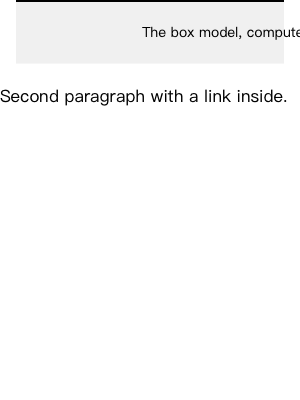
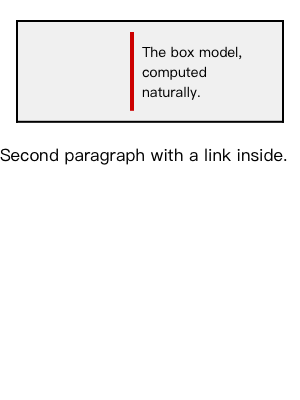
fix(css): apply declarations in source order, not dictionary order
The cascade applied a rule's declarations by iterating a [String: String]
dictionary. Swift randomizes Dictionary iteration per process, so when two
declarations in one rule touched the same property the winner was decided by
the hash seed — identical input laid out differently between runs.

红楼梦 chapter title pages carry:

    div.v1 { border: 4px solid #fff; border-width: 4px 0px; ... }

Both write the left/right border. Depending on the seed the box was 0 or 4pt
wider per side, so the centered title landed on a different x. Whole-book
runs disagreed on a *varying* subset of chapters, which is why this looked
like cross-chapter state leakage at first.

- DeclarationBlock/CSSRule now carry `order`: property names in source order,
  a re-declared property moving to its last position. A declaration killed by
  an earlier !important does not move its property.
- cascadeApply walks that order. The pre-existing font-size special case
  stays: it is the two-pass computation CSS requires for em-relative values,
  not an ordering workaround. Its comment already recorded the same bug
  ("line-height flips between runs, 27.1pt vs 33.3pt on 145%") — only the
  symptom had been patched.
- The capability scanner iterates source order too, so its reported reason
  list is stable.

This is the shared CSS parser: the legacy CoreText path uses it as well, so
the non-determinism was in shipping builds, not only in the browser engine.

Evidence
[…]

diff --git a/Tests/iOS/yuedu appTests/BrowserLayoutDeterminismTests.swift b/Tests/iOS/yuedu appTests/BrowserLayoutDeterminismTests.swift
@@ -1,0 +1,104 @@
+import Testing
+import Foundation
+@testable import yuedu_app
+
+/// Isolating the BrowserLayout non-determinism found by the whole-book
+/// line-break net: laying out identical input three times produced different
+/// geometry for a *varying* subset of chapter title pages (spine 266 took
+/// x = 168.20 / 170.20 / 164.20 across three runs).
+///
+/// These three tests separate the candidate causes rather than guessing:
+///
+///   1. `isolatedLayoutIsStable`      — is one chapter, alone, reproducible?
+///   2. `loopResultMatchesIsolated`   — does laying out the whole book before
+///                                      it change the answer?
+///   3. `prefixLengthChangesResult`   — does *how much* came before it matter?
+///
+/// (1) failing means the instability is inside a single chapter's layout.
+/// (1) passing while (2) or (3) fails means cross-chapter state is leaking —
+/// the prefix is the carrier, and (3) narrows how far back it reaches.
+@MainActor
+struct BrowserLayoutDeterminismTests {
+
+    typealias Net = BrowserLayoutLineBreakBaselineTests
+
+    /// Chapter title pages seen flapping. 266 flapped in two separate runs.
+    static let suspects = [266, 257, 262, 403]
+    static let probe = 266
+
+    private static func print(of session: PublicationSession, spine: Int) async -> Net.ChapterPrint? {
+        guard let (pages, text) = await Net.layout(session: session, spine: spine) else { return nil }
+        return Net.fingerprint(spine: spine, pages: pages, sourceText: text)
+    }
+
+    private static func freshSession() async throws -> PublicationSession {
+        let path = try #require(Net.epubPath)
+        return try await PublicationSession.open(sourceURL: URL(fileURLWithPath: path))
+    }
+
+    // MARK: - 1. Alone, repeated
+
+    @Test("a single chapter laid out alone is reproducible", .enabled(if: Net.epubPath != nil))
+    func isolatedLayoutIsStable() async throws {
+        var seen: [String: Int] = [:]
+        for _ in 0..<5 {
+            // Fresh session each pass: nothing carries over but process-global state.
+            let session = try await Self.freshSession()
+            guard let p = await Self.print(of: session, spine: Self.probe) else { continue }
+            seen[p.first, default: 0] += 1
+        }
+        Swift.print("DETERMINISM isolated spine=\(Self.probe) distinctFirstLines=\(seen.count) → \(seen)")
+        #expect(seen.count == 1, "spine \(Self.probe) alone produced \(seen.count) different first lines: \(seen)")
+    }
+
+    // MARK: - 2. Alone vs after the whole book
+
+    @Test("laying out the whole book first does not change a chapter", .enabled(if: Net.epubPath != nil))
+    func loopResultMatchesIsolated() async throws {
+        let solo = try await Self.freshSession()
+        let alone = await Self.print(of: solo, spine: Self.probe)
+
+        let looped = try await Self.freshSession()
+        for spine in 0..<Self.probe {
+            _ = await Net.layout(session: looped, spine: spine)
+        }
+        let afterLoop = await Self.print(of: looped, spine: Self.probe)
+
+        Swift.print("DETERMINISM alone=\(alone?.first ?? "-")")
+        Swift.print("DETERMINISM loop =\(afterLoop?.first ?? "-")")
+        #expect(alone == afterLoop, "prefix of \(Self.probe) chapters changed the layout of spine \(Self.probe)")
+    }
+
+    // MARK: - 3. How far back does the carrier reach?
+
+    @Test("the length of what came before does not change a chapter", .enabled(if: Net.epubPath != nil))
+    func prefixLengthChangesResult() async throws {
+        var byPrefix: [Int: String] = [:]
+        for start in [Self.probe - 1, Self.probe - 16, Self.probe - 64, 0] {
+            let session = try await Self.freshSession()
+            for spine in start..<Self.probe {
+                _ = await Net.layout(session: session, spine: spine)
+            }
+            byPrefix[Self.probe - start] = await Self.print(of: session, spine: Self.probe)?.first ?? "-"
+        }
+        Swift.print("DETERMINISM byPrefixLength=\(byPrefix)")
+        #expect(Set(byPrefix.values).count == 1, "prefix length changed the result: \(byPrefix)")
+    }
+
+    // MARK: - Every suspect, alone
+
+    @Test("all suspect title pages are reproducible alone", .enabled(if: Net.epubPath != nil))
+    func allSuspectsStableAlone() async throws {
+        var unstable: [Int] = []
+        for spine in Self.suspects {
+            var seen = Set<String>()
+            for _ in 0..<3 {
+                let session = try await Self.freshSession()
+                if let p = await Self.print(of: session, spine: spine) { seen.insert(p.first) }
+            }
+            if seen.count > 1 { unstable.append(spine) }
+        }
+        Swift.print("DETERMINISM unstableAlone=\(unstable)")
+        #expect(unstable.isEmpty, "unstable in isolation: \(unstable)")
+    }
+}

diff --git a/Modules/Core/ReaderCore/CoreText/HTMLAttributedStringBuilder.swift b/Modules/Core/ReaderCore/CoreText/HTMLAttributedStringBuilder.swift
@@ -2478,7 +2478,12 @@ struct CSSRule {
     let selector: CSSSelector
     let declarations: [String: String]
     let importantDeclarations: [String: String]
+    /// Property names in source order. Apply declarations by walking this —
+    /// never by iterating `declarations`, whose order Swift randomizes per
+    /// process (see `DeclarationBlock.order`).
+    let declarationOrder: [String]
     let specificity: Int
+    /// This rule's position among all rules in the stylesheet.
     let order: Int
 }
 
@@ -2663,6 +2668,7 @@ enum CSSParser {
                     selector: selector,
                     declarations: declarations.normal,
                     importantDeclarations: declarations.important,
+                    declarationOrder: declarations.order,
                     specificity: specificity(of: selector),
                     order: orderOffset + index
                 )
@@ -2703,6 +2709,7 @@ enum CSSParser {
                     selector: selector,
                     declarations: declarations.normal,
                     importantDeclarations: declarations.important,
+                    declarationOrder: declarations.order,
                     specificity: specificity(of: selector),
                     order: orderOffset + index
                 )
@@ -2719,6 +2726,18 @@ enum CSSParser {
     struct DeclarationBlock {
         let normal: [String: String]
         let important: [String: String]
+        /// Property names in SOURCE order — the order they must be applied in.
+        ///
+        /// A dictionary cannot carry this: Swift randomizes `Dictionary`
+        /// iteration per process, so applying declarations by iterating the
+        /// dictionary made the cascade depend on the hash seed. Two shorthands
+        /// touching one property (`border: 4px` then `border-width: 4px 0px`)
+        /// resolved to whichever the seed happened to visit last, so identical
+        /// input rendered differently between runs.
+        ///
+        /// A property that appears more than once is listed at its LAST
+        /// position, which is where the surviving value was declared.
+        let order: [String]
 
         var merged: [String: String] {
             normal.merging(important) { _, importantValue in importantValue }
@@ -2766,6 +2785,7 @@ enum CSSParser {
     static func parseDeclarationBlock(_ css: String) -> DeclarationBlock {
         var normal: [String: String] = [:]
         var important: [String: String] = [:]
+        var order: [String] = []
         for segment in splitDeclarations(css) {
             let parts = segment.split(separator: ":", maxSplits: 1, omittingEmptySubsequences: true)
             guard parts.count == 2 else { continue }
@@ -2784,10 +2804,18 @@ enum CSSParser {
                     normal.removeValue(forKey: key)
                 } else if important[key] == nil {
                     normal[key] = value
+                } else {
+                    // An `!important` earlier in the block already won this
+                    // property; the later normal declaration is dead and must
+                    // not move the property's position.
+                    continue
                 }
+                // Re-declaring moves the property to its last position.
+                if let existing = order.firstIndex(of: key) { order.remove(at: existing) }
+                order.append(key)
             }
         }
-        return DeclarationBlock(normal: normal, important: important)
+        return DeclarationBlock(normal: normal, important: important, order: order)
     }
 
     /// Splits a complex selector into components joined by descendant (whitespace) and child (`>`)

diff --git a/Modules/Core/ReaderCore/BrowserLayout/ComputedStyleTreeBuilder.swift b/Modules/Core/ReaderCore/BrowserLayout/ComputedStyleTreeBuilder.swift
@@ -160,13 +160,17 @@ final class ComputedStyleTreeBuilder {
                 return lhs.specificity < rhs.specificity
             }
 
-        for rule in matched { cascadeApply(rule.declarations, to: &style, ctx: ctx) }
+        for rule in matched {
+            cascadeApply(rule.declarations, order: rule.declarationOrder, to: &style, ctx: ctx)
+        }
 
         let inlineDecl = CSSParser.parseDeclarationBlock((try? element.attr("style")) ?? "")
-        cascadeApply(inlineDecl.normal, to: &style, ctx: ctx)
+        cascadeApply(inlineDecl.normal, order: inlineDecl.order, to: &style, ctx: ctx)
 
-        for rule in matched { cascadeApply(rule.importantDeclarations, to: &style, ctx: ctx) }
-        cascadeApply(inlineDecl.important, to: &style, ctx: ctx)
+        for rule in matched {
+            cascadeApply(rule.importantDeclarations, order: rule.declarationOrder, to: &style, ctx: ctx)
+        }
+        cascadeApply(inlineDecl.important, order: inlineDecl.order, to: &style, ctx: ctx)
 
         if element.hasAttr("hidden") { style.isHidden = true }
         return style
@@ -207,7 +211,16 @@ private extension ComputedStyle {
 }
 
 private extension ComputedStyleTreeBuilder {
-    func cascadeApply(_ declarations: [String: String], to style: inout ComputedStyle, ctx: ApplyContext) {
+    /// Applies a declaration block. `order` carries the SOURCE order of the
+    /// property names; iterating `declarations` directly would apply them in
+    /// Swift's per-process randomized dictionary order, which made the cascade
+    /// non-deterministic across runs.
+    func cascadeApply(
+        _ declarations: [String: String],
+        order: [String],
+        to style: inout ComputedStyle,
+        ctx: ApplyContext
+    ) {
         // `line-height` percentages resolve against the element's COMPUTED
         // font-size, and `font-size` in the same block is always computed
         // first per CSS. Dictionary iteration order is not guaranteed, so
@@ -216,7 +229,8 @@ private extension ComputedStyleTreeBuilder {
         if let fontSize = declarations["font-size"] {
             ComputedStylePropertyApplier.apply(key: "font-size", value: fontSize, to: &style, ctx: ctx)
         }
-        for (key, value) in declarations where key != "font-size" {
+        for key in order where key != "font-size" {
+            guard let value = declarations[key] else { continue }
             ComputedStylePropertyApplier.apply(key: key, value: value, to: &style, ctx: ctx)
         }
     }

diff --git a/Modules/Core/ReaderCore/BrowserLayout/BrowserLayoutCapabilityScanner.swift b/Modules/Core/ReaderCore/BrowserLayout/BrowserLayoutCapabilityScanner.swift
@@ -125,7 +125,10 @@ enum BrowserLayoutCapabilityScanner {
                     }
                     guard !matchedElements.isEmpty else { continue }  // unmatched rule → ignore
 
-                    for (property, value) in rule.declarations {
+                    // Source order, not dictionary order: the reported
+                    // reason list must be stable across runs.
+                    for property in rule.declarationOrder {
+                        guard let value = rule.declarations[property] else { continue }
                         if let feature = layoutAffectingDeclaration(key: property, value: value) {
                             reasons.append(feature)
                             if !matchedAnyUnsupported, let first = matchedElements.first {

diff --git a/docs/browser-layout/phase2a-report.md b/docs/browser-layout/phase2a-report.md
@@ -4,15 +4,15 @@ _Generated by BrowserLayoutABHarnessTests; snapshot artifacts in the local cache
 
 | Book | Category | Chapters | Accepted | Rejected | Engine failures | Parity failures | Page-count diffs | Median first-page (ms) | p95 first-page (ms) | Peak RSS Δ (MB) |
 |---|---|---|---|---|---|---|---|---|---|---|
-| 全知读者视角01 | novel | 8 | 4 | 4 | 0 | 0 | 0 | 7 | 9 | 37.3 |
-| 诡秘之主 | novel | 8 | 5 | 3 | 0 | 0 | 0 | 16 | 26 | 34.1 |
-| 全职高手 | novel | 8 | 5 | 3 | 0 | 0 | 0 | 21 | 28 | 33.3 |
-| 全能游戏设计师 | novel | 8 | 7 | 1 | 0 | 0 | 0 | 1 | 1 | 14.9 |
+| 全知读者视角01 | novel | 8 | 4 | 4 | 0 | 0 | 0 | 14 | 22 | 36.7 |
+| 诡秘之主 | novel | 8 | 5 | 3 | 0 | 0 | 0 | 14 | 27 | 34.6 |
+| 全职高手 | novel | 8 | 6 | 2 | 0 | 0 | 0 | 20 | 48 | 33.6 |
+| 全能游戏设计师 | novel | 8 | 7 | 1 | 0 | 0 | 0 | 0 | 1 | 15.0 |
 | 壹▪洪武大帝 | novel | 8 | 6 | 2 | 0 | 0 | 0 | 12 | 15 | 49.6 |
-| Block Image Before Parag | images | 1 | 1 | 0 | 0 | 0 | 0 | 4 | 4 | 10.8 |
+| Block Image Before Parag | images | 1 | 1 | 0 | 0 | 0 | 0 | 10 | 10 | 10.8 |
 | Centered Percent Image | images | 1 | 1 | 0 | 0 | 0 | 0 | 1 | 1 | 10.8 |
 | Paragraph Border Backgro | boxes | 1 | 1 | 0 | 0 | 0 | 0 | 1 | 1 | 10.8 |
 | HR Divider Width Alignme | boxes | 1 | 1 | 0 | 0 | 0 | 0 | 0 | 0 | 10.8 |
 | Nav XHTML Basic | links | 2 | 2 | 0 | 0 | 0 | 0 | 0 | 0 | 5.4 |
-| TOC NCX Basic | links | 2 | 2 | 0 | 0 | 0 | 0 | 1 | 1 | 5.4 |
+| TOC NCX Basic | links | 2 | 2 | 0 | 0 | 0 | 0 | 0 | 0 | 5.4 |
 | 红楼梦脂评汇校本-繁体竖排版 (BookDNA经 | complex-reject | 8 | 0 | 8 | 0 | 0 | 0 | 0 | 0 | 33.0 |

diff --git a/docs/browser-layout/phase1.5-report/metrics.md b/docs/browser-layout/phase1.5-report/metrics.md
@@ -1,18 +1,18 @@
 # Browser Layout Phase 1.5 Report
 
 ## Per-stage timing (seconds)
-- cssCollect: 0.0146
-- cssParse: 0.0011
-- styleTree: 0.0006
-- boxTree: 0.0013
+- cssCollect: 0.0000
+- cssParse: 0.0000
+- styleTree: 0.0000
+- boxTree: 0.0000
 - layout: 0.0000
 - fragment: 0.0000
-- total: 0.0176
-- peak footprint delta: 671744 bytes
+- total: 0.0006
+- peak footprint delta: 0 bytes
 
 ## Source-range parity
 - ranges ordered (no loss/dup/reorder): true
 - visible text (70 chars): "The box model, computed naturally.Second paragraph with a link inside."
 
 ## Pages: 1
-- page[0] rect=(0.0, 0.0, 300.0, 400.0) fragments=6
+- page[0] rect=PageLocalRect(rawValue: (0.0, 0.0, 300.0, 400.0)) fragments=8
